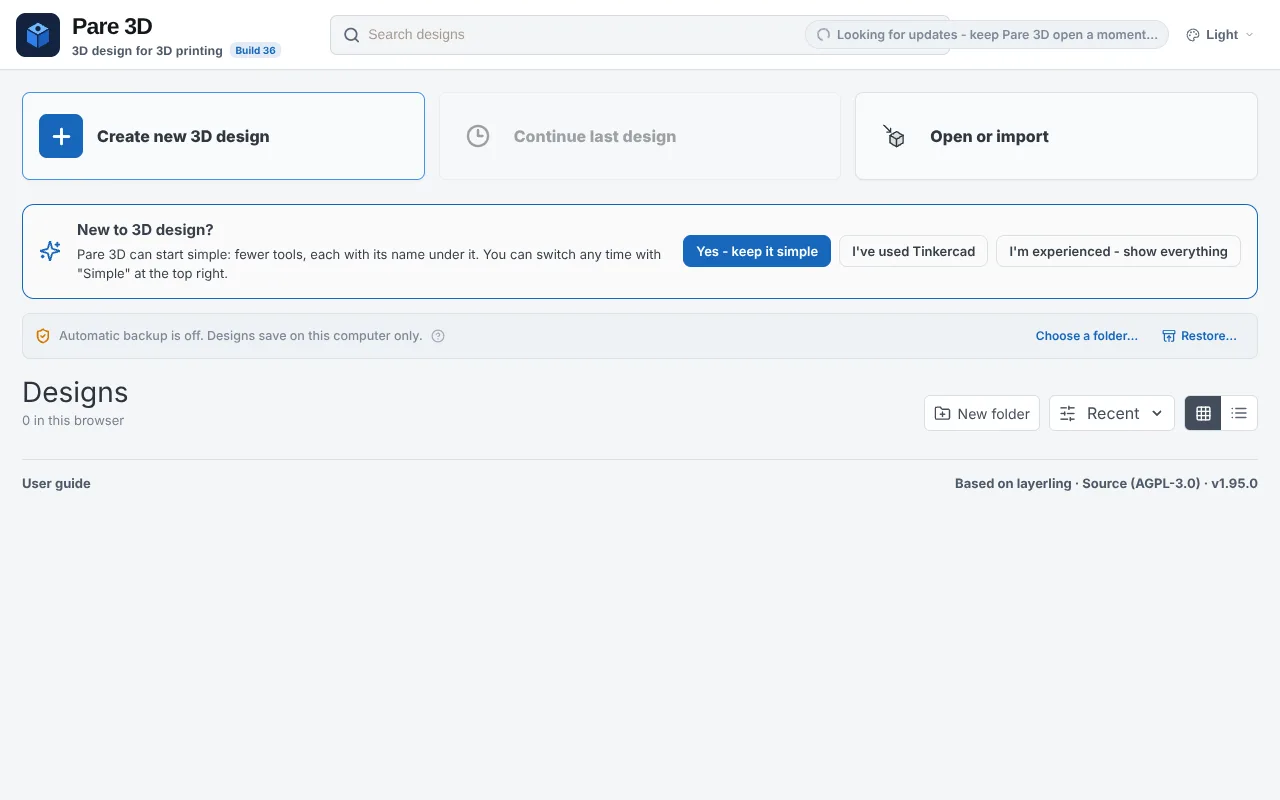
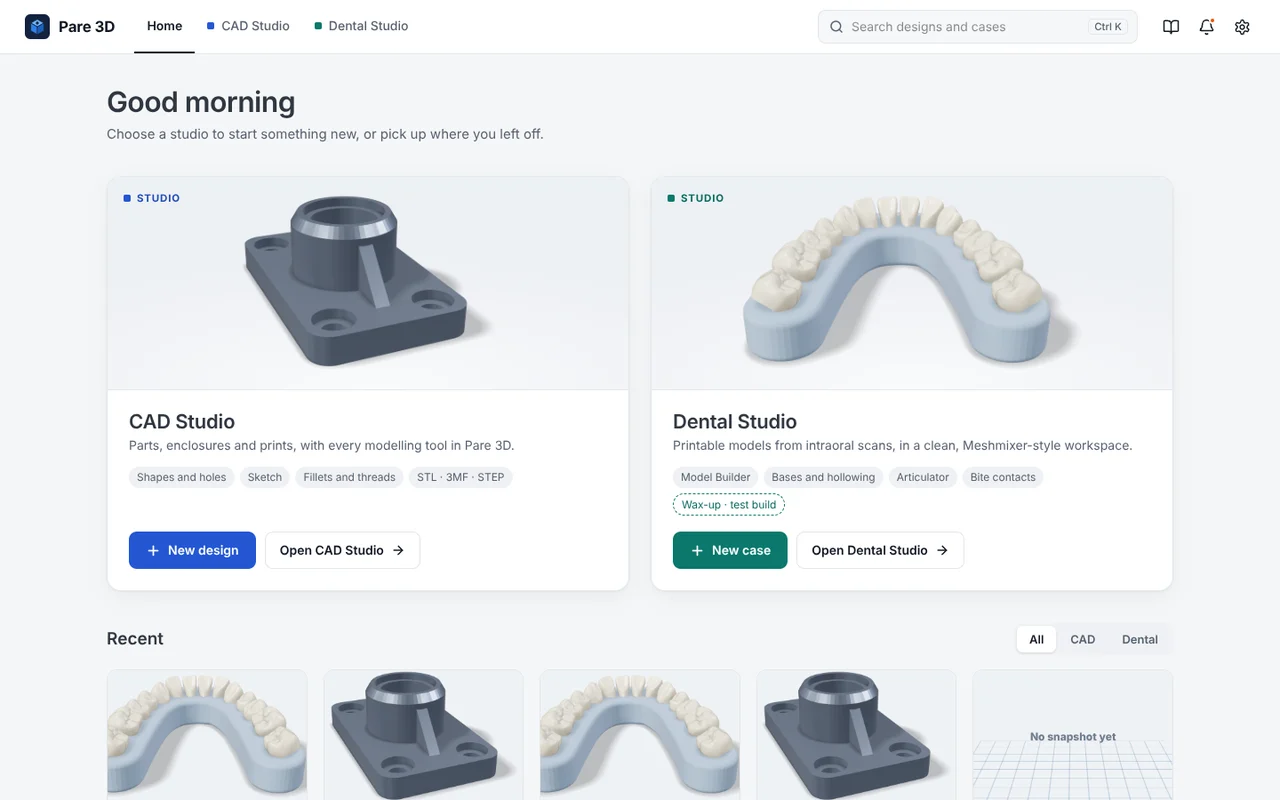
Build 104: guide for the new Home and Dental Studio's workspace; dark wax-up step chips
Getting started describes Home, the two studios and the bar's menus, with a new picture of Home;
Dental Studio's chapter describes its Meshmixer-style workspace, Send to and where Model Builder
and Wax-up now are. Wax-up's step chips take the frame's dark colours.

Claude-Session: https://claude.ai/code/session_01XvzTdYw8DUL48B88VA1YS5

diff --git a/apps/web/src/app/dentalStudio.css b/apps/web/src/app/dentalStudio.css
@@ -383,3 +383,21 @@
   background: transparent;
   border-color: var(--dc-line);
 }
+
+/* Wax-up's step chips, in the frame's dark colours. */
+.studio-dental .wax-steps button {
+  color: var(--dc-text);
+  background: #2a2e34;
+  border-color: var(--dc-line);
+}
+
+.studio-dental .wax-steps button.current {
+  color: #8fb8ff;
+  background: rgba(110, 155, 255, 0.14);
+  border-color: #6e9bff;
+}
+
+.studio-dental .wax-steps .wax-step-number {
+  color: var(--dc-text);
+  background: #3a3f46;
+}

diff --git a/docs/guide/en/18-dental-studio.md b/docs/guide/en/18-dental-studio.md
@@ -9,7 +9,7 @@ An intraoral scan comes out of the scanner as an open surface: the teeth and gum
 
 For most cases you only need three clicks:
 
-1. Click **{{ui:dental.title}}** in the {{ui:editor.group.dental}} group of the toolbar, and **{{ui:dental.import}}** your upper and lower scans (and the bite scan, if you have one).
+1. On the Home page, click {{ui:home.newCase}} on the Dental Studio card (or drop the scans on Dental Studio's page), and **{{ui:dental.import}}** your upper and lower scans (and the bite scan, if you have one).
 2. Under **{{ui:dental.step3}}**, pick what the models are for: **{{ui:dental.study}}**, **{{ui:dental.ortho}}**, **{{ui:dental.aligner}}** or **{{ui:dental.crown}}**.
 3. Click **{{ui:dental.applyPair}}**.
 
@@ -21,7 +21,7 @@ The panel leads you through six numbered steps, top to bottom, each on a card of
 
 ## Step 1 · {{ui:dental.step1}}
 
-Click **{{ui:dental.title}}** in the {{ui:editor.group.dental}} group of the toolbar, or search for it with [[Ctrl]]+[[K]]. With no scans in the design yet, click **{{ui:dental.import}}** in the panel and pick the upper, lower and bite scans (STL, OBJ, PLY or 3MF) together; they go straight into the slots. Scans already in the design are picked up when the panel opens: file names with upper, lower or bite in them say which is which; otherwise Pare 3D works it out (scanners put the upper above the lower, and a palate or the width across the canines says upper). **{{ui:dental.swap}}** swaps them if it guessed wrong.
+Dental Studio has a workspace of its own, laid out like Meshmixer: a slim bar on top (Home, Undo, Redo, {{ui:home.sendToCad}} and Export), a column of tools down the left - {{ui:dentalChrome.import}}, {{ui:dentalChrome.modelBuilder}}, {{ui:dentalChrome.sculpt}}, {{ui:dentalChrome.edit}} (plane cut, make solid, fill holes, smooth, hollow, reduce, mirror), {{ui:dentalChrome.analysis}} (bite contacts, print check), {{ui:dentalChrome.objects}} and {{ui:dentalChrome.export}} - and the open tool's settings beside the column. A new case opens with **{{ui:dentalChrome.modelBuilder}}** ready; in a case you come back to, click it in the column. {{ui:home.sendToCad}} opens the same case in CAD Studio, with every modelling tool (to add a label or a stand, say); CAD Studio's **{{ui:home.sendToDental}}** brings it back. With no scans in the design yet, click **{{ui:dental.import}}** in the panel and pick the upper, lower and bite scans (STL, OBJ, PLY or 3MF) together; they go straight into the slots. Scans already in the design are picked up when the panel opens: file names with upper, lower or bite in them say which is which; otherwise Pare 3D works it out (scanners put the upper above the lower, and a palate or the width across the canines says upper). **{{ui:dental.swap}}** swaps them if it guessed wrong.
 
 **As the panel opens** Pare 3D welds each scan, removes broken triangles and loose pieces, fills the small holes and sets each arch up teeth up, with the occlusal plane level and the midline straight. A quadrant is recognised as one and set up along its own length. The arches stay exactly where the scanner put them, which is in occlusion when they came from the same scan. The panel says what it found for each scan and whether the arches are in occlusion.
 
@@ -153,7 +153,7 @@ The scans are kept with the models, hidden. Later, select a model and open **{{u
 
 ## {{ui:waxStudio.title}}
 
-**{{ui:waxStudio.command}}**, beside **{{ui:dental.title}}** on the toolbar, opens the same steps with a diagnostic wax-up in them. It is in test builds only for now, while its steps are made clearer. For now it waxes the anterior teeth - canine to canine, or premolar to premolar, the range IMT is used for; a posterior studio, for occlusal wax-ups, is to follow. Two choices sit above the steps: **{{ui:waxStudio.flow}}** - **{{ui:waxStudio.flowWaxup}}** or **{{ui:waxStudio.flowImt}}** - and **{{ui:waxStudio.arches}}**.
+**{{ui:waxStudio.command}}**, below **{{ui:dentalChrome.modelBuilder}}** in Dental Studio's column, opens the same steps with a diagnostic wax-up in them. It is in test builds only for now, while its steps are made clearer. For now it waxes the anterior teeth - canine to canine, or premolar to premolar, the range IMT is used for; a posterior studio, for occlusal wax-ups, is to follow. Two choices sit above the steps: **{{ui:waxStudio.flow}}** - **{{ui:waxStudio.flowWaxup}}** or **{{ui:waxStudio.flowImt}}** - and **{{ui:waxStudio.arches}}**.
 
 1. Load and trim the scans as for any model.
 2. **{{ui:waxup.findStep}}**: **{{ui:waxup.find}}** marks and numbers every tooth on the scan, in colour, in about ten seconds. The canine-to-canine teeth are chosen at first; click a tooth to add or leave it out. A number shown dashed was put right by the tooth's place in the arch - the network called it something else - so check it. The midline and canine tips are set from the teeth found; **{{ui:waxup.markAgain}}** sets them by hand instead.

diff --git a/docs/guide/en/01-getting-started.md b/docs/guide/en/01-getting-started.md
@@ -5,17 +5,19 @@ summary: From a blank sheet to your first part for the 3D printer, in five minut
 
 Pare 3D is a free design program for 3D printing, for Mac and Windows. You build a part from simple shapes, cut holes into it, round the edges and send it to your slicer. If you have used Tinkercad you will feel at home; if you have used Fusion you will find its push/pull, fillet, shell, pattern and loft moves. There is nothing to sign up for, and what you build stays on your computer. How to install it is in [Installing, updates and where things are saved](chapter:offline-and-install).
 
-![The start page of Pare 3D: "Create new 3D design" at the top, your designs and the quick guide below.](shot:start-page)
+![The Home page of Pare 3D: CAD Studio and Dental Studio side by side, your most recent work below.](shot:start-page)
 
 ## Creating a design
 
-Open Pare 3D. The start page has three big buttons: {{ui:dashboard.createDesign}}, **Continue last design** and {{ui:dashboard.importGeometry}}. Click {{ui:dashboard.createDesign}}: the editor opens with an empty workplane - the grid on which everything takes shape - and the Shapes panel open on the right.
+Open Pare 3D. The Home page shows the two studios side by side: **{{ui:home.cadStudio}}**, for parts, enclosures and prints, and **{{ui:home.dentalStudio}}**, for printable models from intraoral scans (see [Dental Studio](chapter:dental-studio)). Below them, **{{ui:home.recent}}** lists your most recent work from both. Click {{ui:home.newDesign}} on the CAD Studio card: the editor opens with an empty workplane - the grid on which everything takes shape - and the Shapes panel open on the right.
 
-The first time, the start page asks **New to 3D design?**. {{ui:firstRun.beginner}} starts in Simple mode: fewer tools, each with its name under it. {{ui:firstRun.tinkercad}} opens a page that shows where everything you know from Tinkercad is. {{ui:firstRun.experienced}} shows every tool. You can switch at any time with **Simple mode** at the top right.
+The bar across the top takes you between {{ui:home.tabHome}}, {{ui:home.cadStudio}} and {{ui:home.dentalStudio}}, and holds the search field ([[Ctrl]]+[[K]], or [[⌘]]+[[K]] on a Mac), the guides (the book), notifications - updates and backups - (the bell) and the settings (the cog). Each studio's page lists its own designs; a design's menu (⋮) can send it to the other studio.
 
-If you already have a file to continue with, use {{ui:dashboard.importGeometry}}. That works for Pare 3D designs (`.lyl`) as well as STL, OBJ, 3MF, STEP or SVG files.
+The first time, CAD Studio's page asks **New to 3D design?**. {{ui:firstRun.beginner}} starts in Simple mode: fewer tools, each with its name under it. {{ui:firstRun.tinkercad}} opens a page that shows where everything you know from Tinkercad is. {{ui:firstRun.experienced}} shows every tool. You can switch at any time with **Simple mode** at the top right.
 
-All your designs appear on the start page with a preview picture. They are saved automatically after every change, so there is no save button; **Saved** next to the design's name shows it happened. Pare 3D also backs them all up by itself every few minutes while they change: the line above **Designs** says where and when (Documents › Pare 3D Backups at first). {{ui:backupStrip.backUpNow}} makes a backup on the spot, {{ui:backupStrip.restore}} brings one back. More in [Files and saving](chapter:files-and-saving).
+If you already have a file to continue with, use {{ui:home.importCad}} on CAD Studio's page. That works for Pare 3D designs (`.lyl`) as well as STL, OBJ, 3MF, STEP or SVG files.
+
+All your designs appear on their studio's page with a preview picture. They are saved automatically after every change, so there is no save button; **Saved** next to the design's name shows it happened. Pare 3D also backs them all up by itself every few minutes while they change: the bell at the top of the Home page says where and when (Documents › Pare 3D Backups at first). {{ui:backupStrip.backUpNow}} makes a backup on the spot, {{ui:backupStrip.restore}} brings one back. More in [Files and saving](chapter:files-and-saving).
 
 ## The editor at a glance
 
